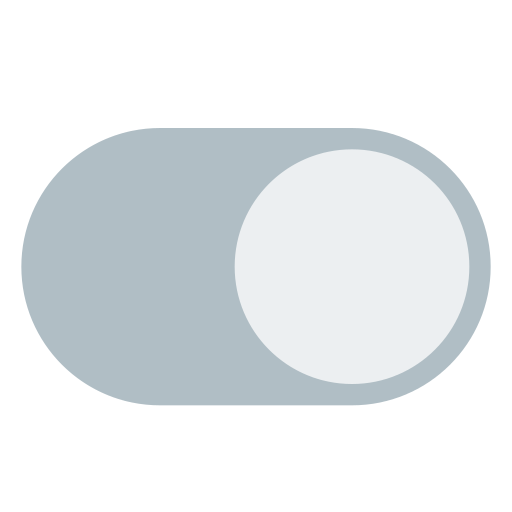
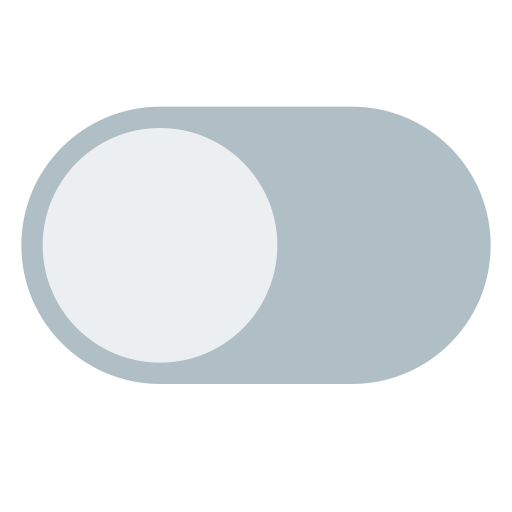
main

diff --git a/Settings.py b/Settings.py
@@ -12,18 +12,19 @@ if __name__ == "__main__":
 
 
 def Check_settings():
-    global see_the_text, Textmanager_Hintergrund, Textmanager_Textfarbe
-    with open(f"C:\\Users\\{Programm_ort}\\Desktop\\Textmanager Daten\\Textmanager Daten\\see_the_text.txt") as see_the_textinfo:
+    global see_the_text, Textmanager_Hintergrund, Textmanager_Textfarbe, sd
+    with open(f"Textmanager Daten\\Textmanager Daten\\see_the_text.txt") as see_the_textinfo:
         see_the_text = see_the_textinfo.read()
-    with open(f"C:\\Users\\{Programm_ort}\\Desktop\\Textmanager Daten\\Textmanager Daten\\Hintergrund.txt") as Neue_Texmanager_Hinregrund:
+    with open(f"Textmanager Daten\\Textmanager Daten\\Hintergrund.txt") as Neue_Texmanager_Hinregrund:
         Textmanager_Hintergrund = Neue_Texmanager_Hinregrund.read()
-    with open(f"C:\\Users\\{Programm_ort}\\Desktop\\Textmanager Daten\\Textmanager Daten\\Textfarbe.txt") as Neue_Texmanager_Textfarbe:
+    with open(f"Textmanager Daten\\Textmanager Daten\\Textfarbe.txt") as Neue_Texmanager_Textfarbe:
         Textmanager_Textfarbe = Neue_Texmanager_Textfarbe.read()
 
 def switch():
-    Photo1 = Image.open("off-button.png")
+    Photo1 = Image.open("on-button.png")
     Photo = ImageTk.PhotoImage(Photo1.resize((100,100)))
     Textanzeiger.config(image=Photo)
+    Textanzeiger.m
 
 def make_settings():
     global Textanzeiger

diff --git a/Neue_Textmanager.py b/Neue_Textmanager.py
@@ -28,7 +28,7 @@ def Menu_generator():
     Menu_Kamera = Menu(Menu_Settings, bg=Settings.Textmanager_Hintergrund, fg=Settings.Textmanager_Textfarbe, border=0)
     Menu_LiedKontrolle = Menu(Menu_Settings, bg=Settings.Textmanager_Hintergrund, fg=Settings.Textmanager_Textfarbe, border=0)
     Menu_Help = Menu(Menu_Settings, bg=Settings.Textmanager_Hintergrund, fg=Settings.Textmanager_Textfarbe, border=0, borderwidth=0)
-    Menu_Settings.add_cascade(label="Info", menu= Menu_Info)
+    Menu_Settings.add_cascade(label="Info", menu=Menu_Info)
     Menu_Settings.add_cascade(label="Kamera", menu=Menu_Kamera)
     Menu_Settings.add_cascade(label="Lied Kontrolle", menu=Menu_LiedKontrolle)
     Menu_Settings.add_cascade(label="Hilfe", menu=Menu_Help)
